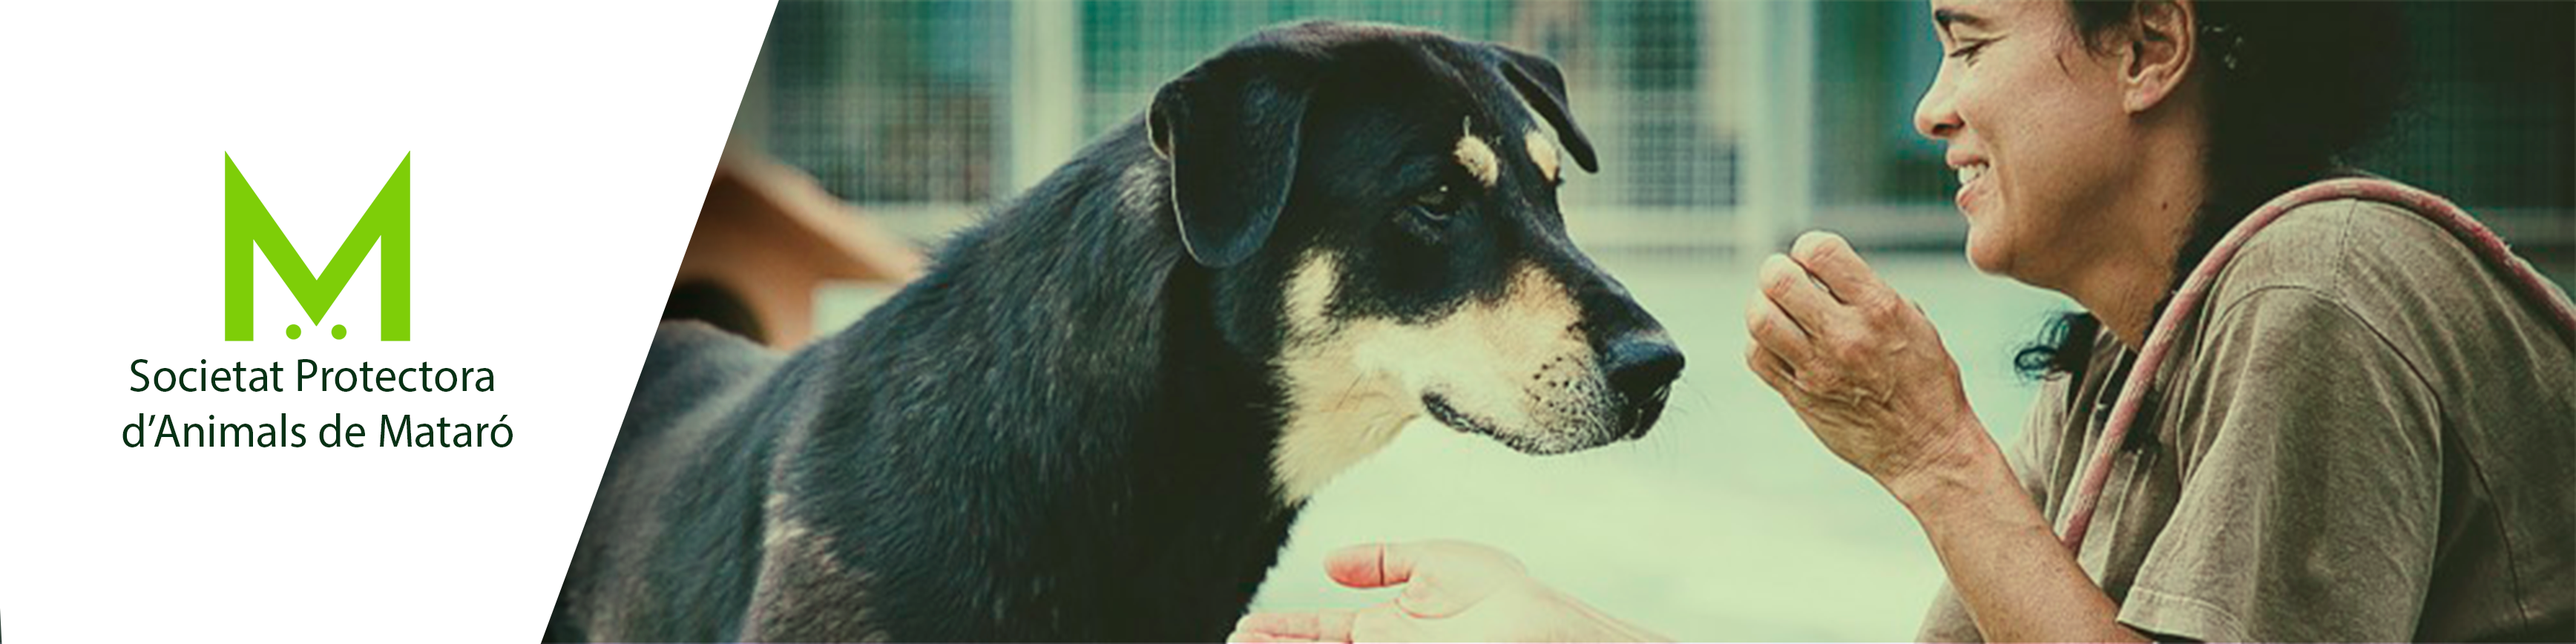
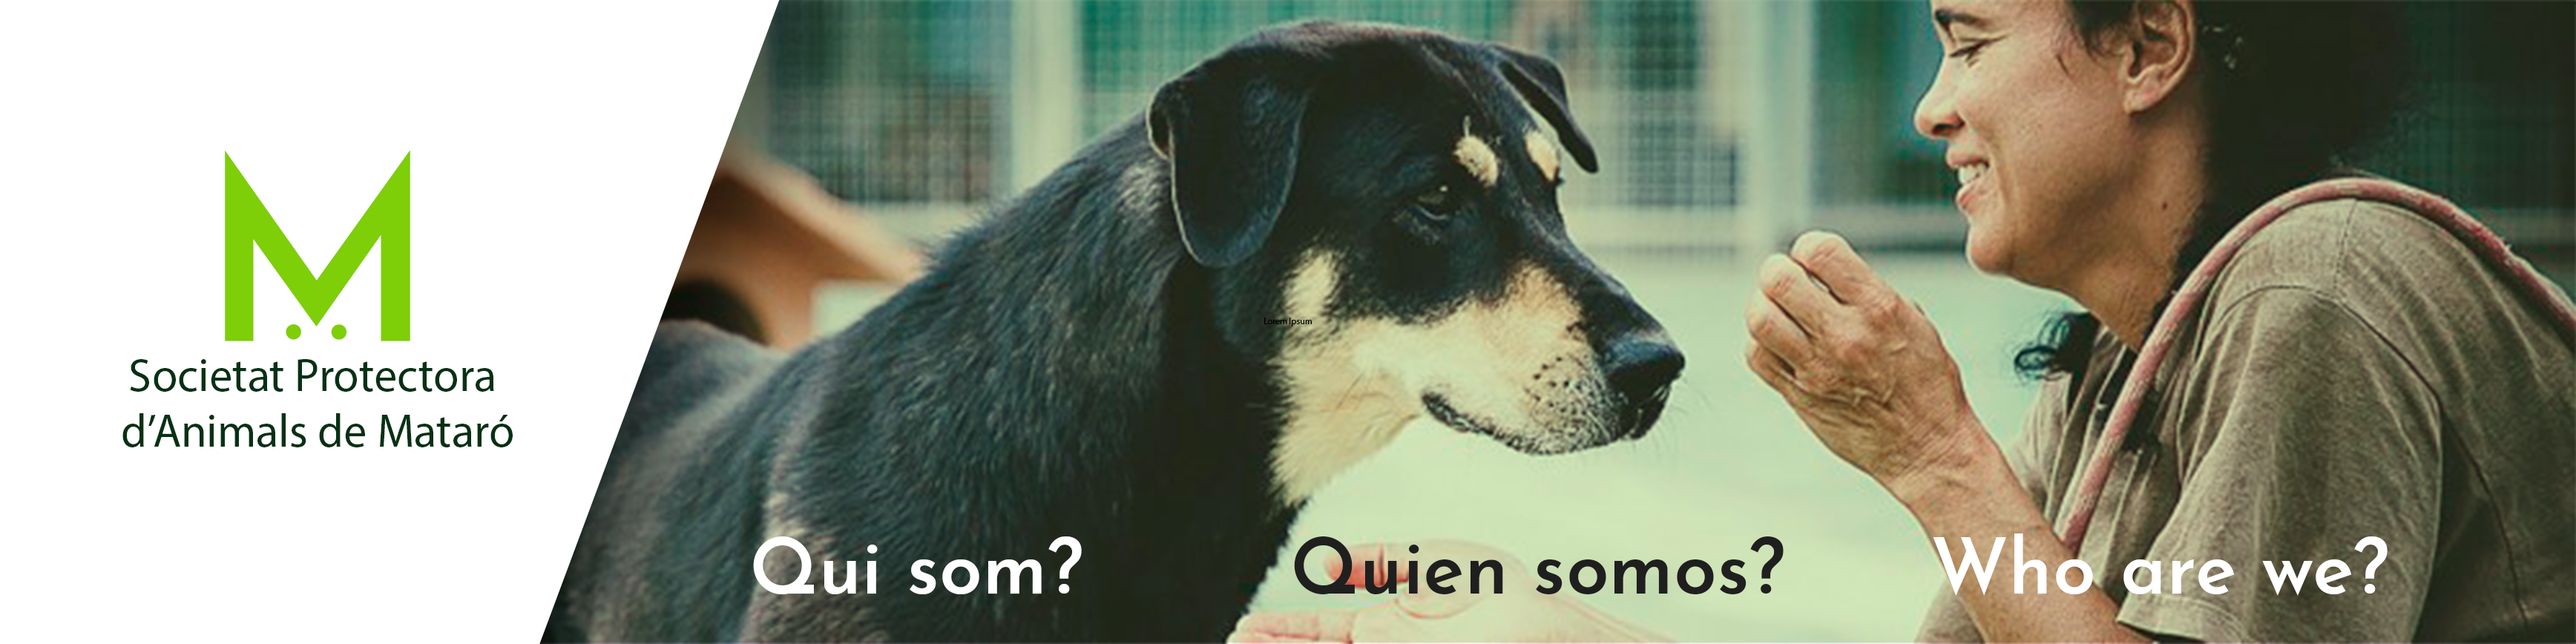
Quien somos

Changed region(s): [[0.7465, 0.8399, 0.9332, 0.9332], [0.4977, 0.8399, 0.7154, 0.9332], [0.28, 0.8399, 0.4355, 0.9332]]

diff --git a/public/scss/frontend/quien-somos.scss b/public/scss/frontend/quien-somos.scss
@@ -9,13 +9,19 @@
     font-family: "Josefin";
     src: url("../../fuentes/Josefin_Sans/JosefinSans-Bold.ttf");
   }
+  @font-face {
+    font-family: "J-light";
+    src: url("../../fuentes/Josefin_Sans/JosefinSans-Light.ttf");
+  }
 
   body {
     background: white;
     overflow-x: hidden;
   }
-
-  h1,h2,h3,h5 {
+  h5{
+    font-family: J-light;
+  }
+  h1,h2,h3 {
     font-family: Josefin;
     color: #454049;
   }

diff --git a/public/css/frontend/quien-somos.css b/public/css/frontend/quien-somos.css
@@ -6,12 +6,20 @@
   font-family: "Josefin";
   src: url("../../fuentes/Josefin_Sans/JosefinSans-Bold.ttf");
 }
+@font-face {
+  font-family: "J-light";
+  src: url("../../fuentes/Josefin_Sans/JosefinSans-Light.ttf");
+}
 body {
   background: white;
   overflow-x: hidden;
 }
 
-h1, h2, h3, h5 {
+h5 {
+  font-family: J-light;
+}
+
+h1, h2, h3 {
   font-family: Josefin;
   color: #454049;
 }

diff --git a/resources/views/frontend/paginas/como_ayudar.blade.php b/resources/views/frontend/paginas/como_ayudar.blade.php
@@ -1,0 +1,47 @@
+@extends('frontend.plantillas.master')
+
+@section('css_propio')
+<link rel="stylesheet" href="{{ asset('css/frontend/quien-somos.css') }}">
+@endsection
+
+@section('titulo')
+    Landing
+@endsection
+
+@section('contenido')
+<main class="container-fluid">
+    <img src="{{ asset('img/quien-somos/img-quien-somos-8.png') }}" class="img-fluid" alt="Responsive image">
+    <div class="text-center m-5">
+        <h1>Dona dinero</h1>
+        <p>Lorem ipsum dolor sit amet consectetur adipiscing elit cras varius sollicitudin, taciti vel mollis nunc pretium netus sodales volutpat luctus conubia neque, convallis orci suspendisse leo integer libero commodo inceptos curae. Velit pellentesque curabitur eget aliquet cursus lectus ad maecenas suscipit pulvinar congue luctus ultricies, curae porta vulputate lobortis neque hac porttitor potenti dui senectus sollicitudin integer. Condimentum diam eu fermentum nam metus platea neque in mattis tempus dis tempor, ad sed molestie mi porta blandit bibendum tortor arcu proin hendrerit.
+
+                Eros tincidunt duis tempor ante potenti molestie libero blandit commodo euismod per litora sapien, quis mattis turpis maecenas elementum cum suscipit quisque platea eu orci. Pharetra purus consequat vitae tempus mi proin maecenas nulla, dictumst at eu posuere condimentum aliquam primis etiam, vel augue quisque cubilia euismod netus vestibulum. Laoreet varius accumsan elementum per vehicula purus phasellus quam, nibh fames maecenas donec ligula felis euismod duis, at parturient turpis egestas auctor fermentum integer.</p>
+    </div>
+    <div class="row p-5">
+        <div class="col-md-6">
+                <img src="{{ asset('img/quien-somos/antua-pics-01.jpg') }}" class="img-fluid" alt="Responsive image">
+        </div>
+        <div class="col-md-6">
+            <button class="btn btn-lg btn-primary fb"><i class="fab fa-facebook-f"></i> Dona en Facebook</button>
+            <button class="btn btn-lg btn-success fb"><i class="fas fa-hand-holding-usd"></i> Participa en els reptes</button>
+        </div>
+    </div>
+</main>
+
+@endsection
+
+@section('js_loaded')
+<script src="{{ asset('./js/frontend/landing.js') }}"></script>
+<script>
+    var $spam = $('#spam');
+    console.log($spam.position().top);
+    $(window).scroll(function(){
+        console.log($(this).scrollTop());
+    })
+
+    function showOnScroll(divId){
+        var divMostrar = $('#'+divId);
+    }
+
+</script>
+@endsection

diff --git a/resources/views/frontend/paginas/quien_somos.blade.php b/resources/views/frontend/paginas/quien_somos.blade.php
@@ -10,7 +10,6 @@
 
 @section('contenido')
 <main class="container-fluid">
-    <h1>¿Quien Somos?</h1>
     <img src="{{ asset('img/quien-somos/img-quien-somos-1.png') }}" class="img-fluid" alt="Responsive image">
     <hr>
     <div class="p-5">
@@ -75,11 +74,13 @@
             <iframe width="1280" height="720" src="https://www.youtube.com/embed/qRdSLZ5UmSE" frameborder="0" allow="accelerometer; autoplay; encrypted-media; gyroscope; picture-in-picture" allowfullscreen></iframe>
     </div>
     <hr>
-    <h1>{{__("frontend.who-junta")}}</h1>
-    <div id="empleados" class="row p-5">
+    <h1 class="pl-5 mt-5">{{__("frontend.who-junta")}}</h1>
+    <div id="empleados" class="row p-5 d-flex justify-content-center">
         <div class="card m-3">
             <div class="card-body">
-                <div class="em-color"></div>
+                <div class="em-color">
+                    <img src="" alt="">
+                </div>
                 <img class="foto rounded-circle m-0" class="rounded-circle"src="{{ asset('img/quien-somos/presidenta.jpg') }}">
                 <div class="card-info mt-5">
                     <h3>Presidenta</h3>
@@ -110,7 +111,7 @@
         <div class="card m-3">
             <div class="card-body">
                 <div class="em-color"></div>
-                <img class="foto rounded-circle m-0" class="rounded-circle"src="{{ asset('img/quien-somos/tresorera.jpg') }}">
+                <img class="foto rounded-circle m-0" class="rounded-circle"src="{{ asset('img/quien-somos/tresorera.jpg.png') }}">
                 <div class="card-info mt-5">
                     <h3>Tresorera</h3>
                     <h5>Marta Masmitjà Prada</h5>

diff --git a/routes/web.php b/routes/web.php
@@ -8,7 +8,10 @@ Route::get('/landing', function () {
 })->name("landing");
 Route::get('/quien_somos', function () {
     return view('frontend.paginas.quien_somos');
-})->name("landing");
+})->name("quien_somos");
+Route::get('/como_ayudar', function () {
+    return view('frontend.paginas.como_ayudar');
+})->name("como_ayudar");
 //////////////////////////// PAGS FRONTEND ///////////////////////////////////
 
 //////////////////////////// PAGS BACKEND ////////////////////////////////////
